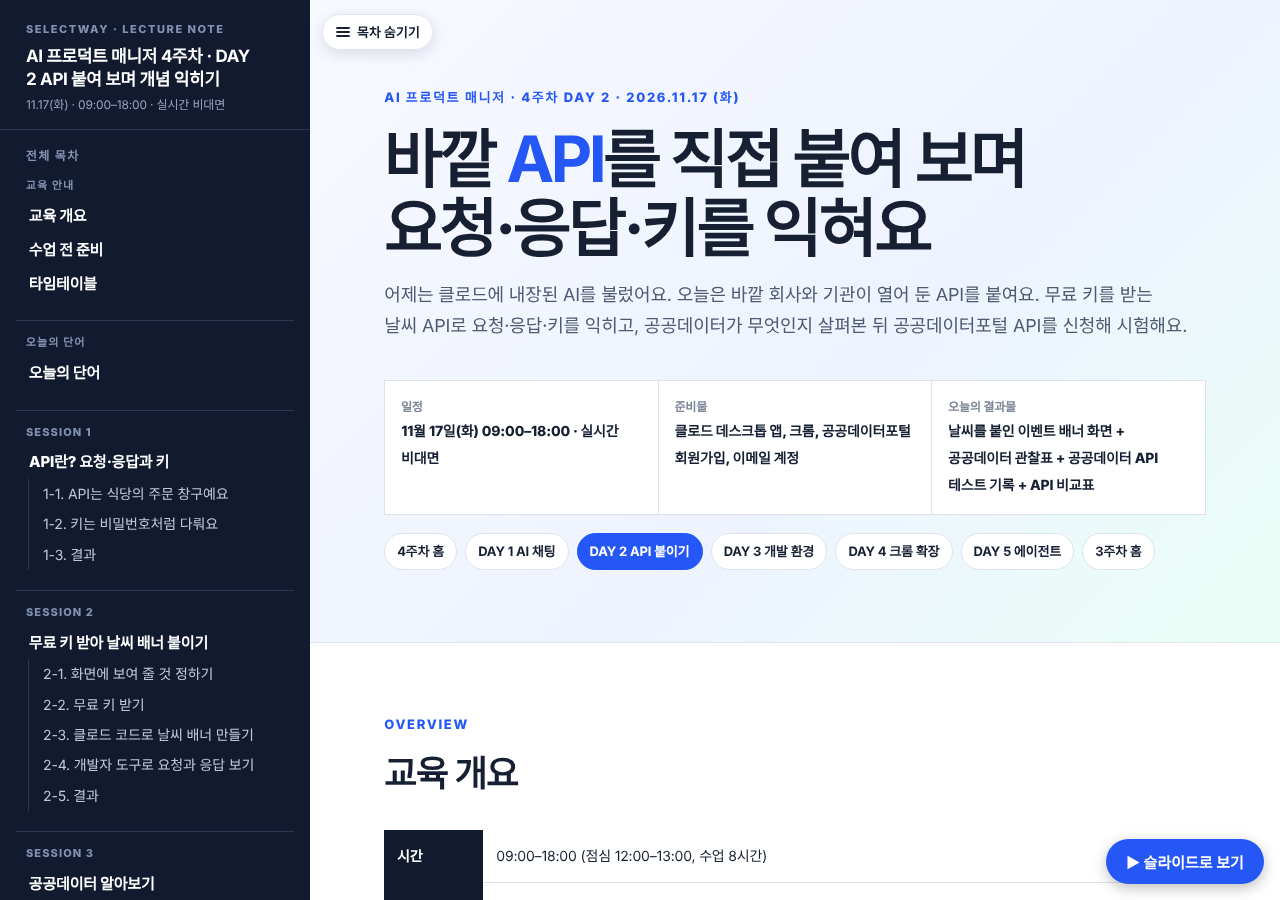
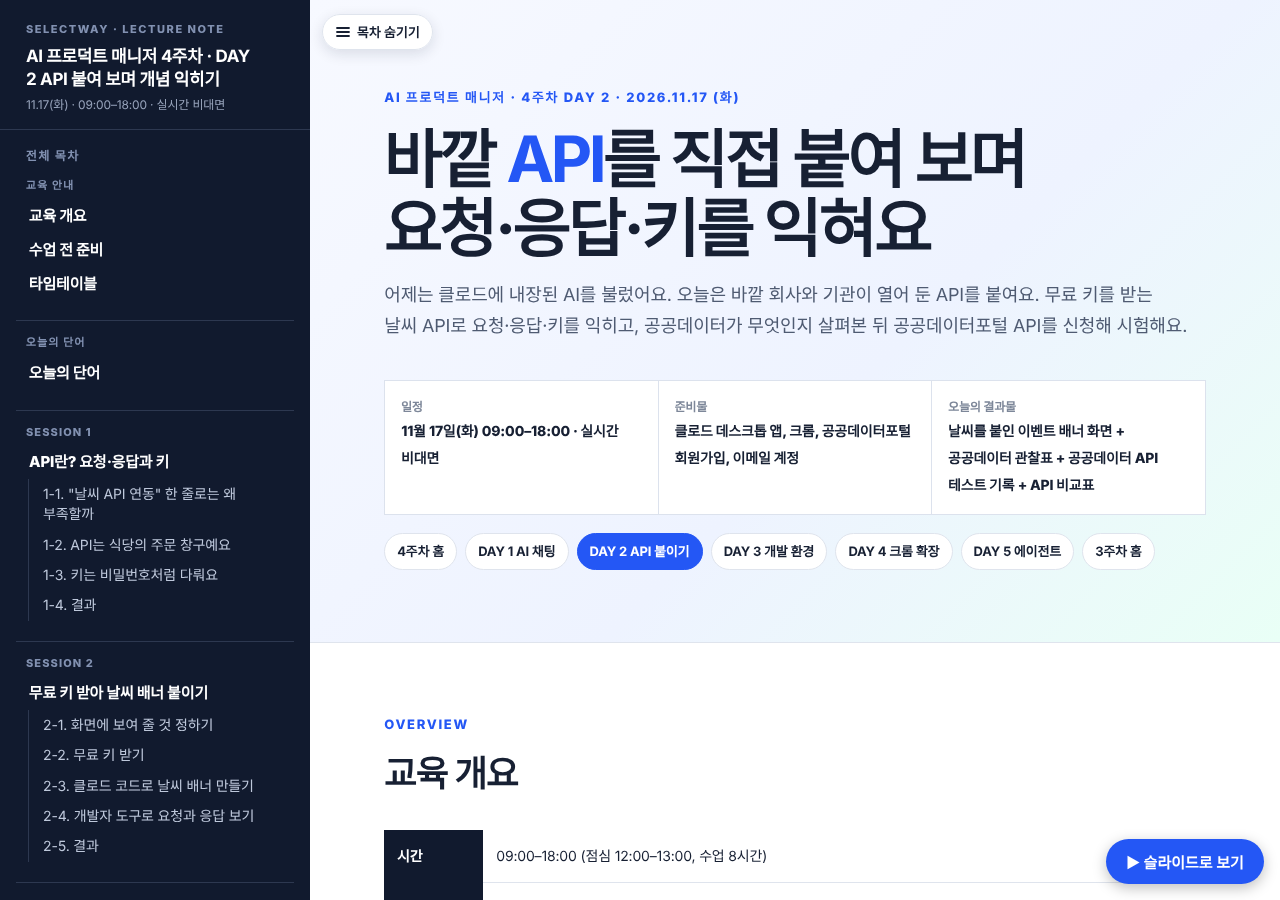
docs(week4-d2): 1-1 개발자 질문·기획자 답 표 추가
- '날씨 API 연동' 한 줄에 개발자가 되묻는 질문 8개와 기획자 답, 배우는 곳
- 기존 1-1~1-3을 1-2~1-4로 번호 이동

Claude-Session: https://claude.ai/code/session_01C4uqyEJDMMad4kDgLNX9Dk

Changed region(s): [[0.0, 0.5289, 0.1875, 0.9956]]

diff --git a/261116-ai-pm-week4/d2-api.html b/261116-ai-pm-week4/d2-api.html
@@ -297,7 +297,7 @@ aside nav a.active{border-left-color:var(--blue)}
 <div class="nav-title">전체 목차</div>
 <div class="grp"><div class="grp-label">교육 안내</div><a class="l2" href="#overview">교육 개요</a><a class="l2" href="#prep">수업 전 준비</a><a class="l2" href="#tt">타임테이블</a></div>
 <div class="grp"><div class="grp-label">오늘의 단어</div><a class="l2" href="#words">오늘의 단어</a></div>
-<div class="grp"><div class="grp-label">SESSION 1</div><a class="l2" href="#s1">API란? 요청·응답과 키</a><a class="l3" href="#s1-1">1-1. API는 식당의 주문 창구예요</a><a class="l3" href="#s1-2">1-2. 키는 비밀번호처럼 다뤄요</a><a class="l3" href="#s1-3">1-3. 결과</a></div>
+<div class="grp"><div class="grp-label">SESSION 1</div><a class="l2" href="#s1">API란? 요청·응답과 키</a><a class="l3" href="#s1-1">1-1. "날씨 API 연동" 한 줄로는 왜 부족할까</a><a class="l3" href="#s1-2">1-2. API는 식당의 주문 창구예요</a><a class="l3" href="#s1-3">1-3. 키는 비밀번호처럼 다뤄요</a><a class="l3" href="#s1-4">1-4. 결과</a></div>
 <div class="grp"><div class="grp-label">SESSION 2</div><a class="l2" href="#s2">무료 키 받아 날씨 배너 붙이기</a><a class="l3" href="#s2-1">2-1. 화면에 보여 줄 것 정하기</a><a class="l3" href="#s2-2">2-2. 무료 키 받기</a><a class="l3" href="#s2-3">2-3. 클로드 코드로 날씨 배너 만들기</a><a class="l3" href="#s2-4">2-4. 개발자 도구로 요청과 응답 보기</a><a class="l3" href="#s2-5">2-5. 결과</a></div>
 <div class="grp"><div class="grp-label">SESSION 3</div><a class="l2" href="#s3">공공데이터 알아보기</a><a class="l3" href="#s3-1">3-1. 공공데이터와 공공데이터법</a><a class="l3" href="#s3-2">3-2. 공공데이터를 찾는 곳</a><a class="l3" href="#s3-3">3-3. 상세 화면에서 먼저 볼 것</a><a class="l3" href="#s3-4">3-4. 파일 데이터 하나 열어 보기</a><a class="l3" href="#s3-5">3-5. 결과</a></div>
 <div class="grp"><div class="grp-label">SESSION 4</div><a class="l2" href="#s4">공공데이터포털 API 시험하기</a><a class="l3" href="#s4-1">4-1. 기상청 단기예보 API의 이용 조건 읽기</a><a class="l3" href="#s4-2">4-2. 활용신청하고 인증키 받기</a><a class="l3" href="#s4-3">4-3. 클로드 코드로 요청 보내 보기</a><a class="l3" href="#s4-4">4-4. 결과</a></div>
@@ -371,7 +371,22 @@ aside nav a.active{border-left-color:var(--blue)}
 <div class="session-head"><div class="eyebrow">SESSION 1 · 09:20–10:30</div><h2>API란? 요청·응답과 키</h2><p>API를 식당 주문에 빗대어 이해하고, API 키를 어디에 두어야 하는지 먼저 정해요.</p>
 <div class="why-box"><b>왜 하나?</b>기획서에 "날씨 API 연동"이라고만 쓰면 개발자는 무엇을 언제 얼마나 부를지 다시 물어요. 요청과 응답의 모양, 키를 다루는 규칙을 알면 기획서에 정확히 쓸 수 있어요.</div></div>
 
-<div class="topic" id="s1-1"><h3><span class="stage">개념</span>1-1. API는 식당의 주문 창구예요</h3>
+<div class="topic" id="s1-1"><h3><span class="stage plan">기획자</span>1-1. "날씨 API 연동" 한 줄로는 왜 부족할까</h3>
+<p>기획서에 "날씨 API 연동"이라고만 쓰면, 개발자는 만들기 전에 아래 질문을 다시 해요. 답이 없으면 개발자가 짐작해서 만들거나, 일이 멈춰요. 오늘 수업에서 이 질문에 답할 재료를 하나씩 모아요.</p>
+<div class="table-wrap"><table><tr><th>개발자가 묻는 것</th><th>기획자의 답 (오늘 만들 날씨 배너 기준)</th><th>오늘 배우는 곳</th></tr>
+<tr><td><b>어느 API를 쓰나요?</b></td><td>OpenWeather 현재 날씨 API를 써요. 기상청 단기예보와 견줘 본 뒤 최종 기준을 정해요.</td><td>2세션, 5-1</td></tr>
+<tr><td><b>어느 지역 날씨인가요? 위치는 무엇으로 묻나요?</b></td><td>서울 한 곳이에요. 위도 37.57, 경도 126.98로 물어요. 사용자 위치는 받지 않아요.</td><td>1-2, 2-1</td></tr>
+<tr><td><b>어떤 값을 화면에 보여 주나요?</b></td><td>현재 기온, 날씨 상태(맑음·흐림 등), 기준 시각 세 가지예요.</td><td>2-1</td></tr>
+<tr><td><b>날씨에 따라 무엇이 바뀌나요?</b></td><td>10°C 아래면 "따뜻한 겨울 선물 추천!" 문구를 보여 줘요.</td><td>2-1</td></tr>
+<tr><td><b>언제, 얼마나 자주 부르나요?</b></td><td>배너가 열릴 때 한 번, [다시 불러오기]를 누를 때 한 번 불러요. 무료 한도(1분 60회, 한 달 1,000,000회) 안에서 써요.</td><td>2-2</td></tr>
+<tr><td><b>키는 누가 받고 어디에 두나요?</b></td><td>회사 계정으로 받고, 서버의 .env(실제 서비스에서는 비밀 값 저장소)에 둬요. 화면 코드에는 넣지 않아요.</td><td>1-3, 2-3</td></tr>
+<tr><td><b>못 불러오면 어떻게 보이나요?</b></td><td>"날씨를 불러오지 못했어요" 문구와 [다시 불러오기] 단추를 보여 줘요. 배너의 다른 내용은 그대로 보여요.</td><td>2-1</td></tr>
+<tr><td><b>출처는 어디에 적나요?</b></td><td>배너 아래에 "날씨 정보: OpenWeather"라고 적어요.</td><td>2-1</td></tr>
+</table></div>
+<p>세션이 끝날 때마다 이 표로 돌아와서, 가운데 칸의 답을 내 서비스에 맞게 고쳐 써 보세요.</p>
+</div>
+
+<div class="topic" id="s1-2"><h3><span class="stage">개념</span>1-2. API는 식당의 주문 창구예요</h3>
 <div class="table-wrap"><table><tr><th>식당에서</th><th>API에서</th><th>날씨 API(OpenWeather) 예</th></tr>
 <tr><td>주문 창구</td><td>엔드포인트(주소)</td><td>api.openweathermap.org/data/2.5/weather</td></tr>
 <tr><td>메뉴판에 적힌 주문법</td><td>API 문서</td><td>위도(lat)·경도(lon)를 넣으라고 적혀 있어요</td></tr>
@@ -383,7 +398,7 @@ aside nav a.active{border-left-color:var(--blue)}
 <p class="source-note">출처: OpenWeather <a href="https://openweathermap.org/current" target="_blank" rel="noopener">Current weather data 문서</a>(요청 주소 api.openweathermap.org/data/2.5/weather, 파라미터 lat·lon·appid·units), <a href="https://docs.openweather.co.uk/faq" target="_blank" rel="noopener">FAQ</a>("Upon registration on our website using just your email (no banking details required), you will receive an API key that allows for 60 free calls per minute.") (2026-11-15 확인)</p>
 </div>
 
-<div class="topic" id="s1-2"><h3><span class="stage">개념</span>1-2. 키는 비밀번호처럼 다뤄요</h3>
+<div class="topic" id="s1-3"><h3><span class="stage">개념</span>1-3. 키는 비밀번호처럼 다뤄요</h3>
 <p>API 키는 "누가 요청했는지" 알려 주는 회원 카드예요. 키가 새면 남이 내 이름으로 요청해서, 사용량과 비용이 내게 쌓여요.</p>
 <div class="table-wrap"><table><tr><th>키를 둔 곳</th><th>누가 볼 수 있나</th><th>괜찮은가요?</th></tr>
 <tr><td>대화창·슬랙·깃헙 이슈에 붙여 넣기</td><td>기록을 볼 수 있는 모든 사람</td><td>안 돼요</td></tr>
@@ -394,7 +409,7 @@ aside nav a.active{border-left-color:var(--blue)}
 <p>어제 챗봇에 클로드 API 키를 넣을 때 대화창이 아니라 .env 파일에 직접 붙여 넣었던 것 기억하시나요? 오늘도 같은 방법을 써요. 3주차 금요일에 키를 깃헙 시크릿에 넣던 것도 같은 규칙이에요.</p>
 </div>
 
-<div class="topic" id="s1-3"><h3><span class="stage">결과</span>1-3. 결과</h3>
+<div class="topic" id="s1-4"><h3><span class="stage">결과</span>1-4. 결과</h3>
 <div class="result-box"><b>결과물</b> 식당 비유 표를 내 말로 한 줄씩 설명하기</div>
 <p class="ok-line"><b>이렇게 보이면 성공</b>주소의 어느 부분이 창구이고 어느 부분이 조건이며, 키는 어디에 두는지 말할 수 있다</p>
 </div>
